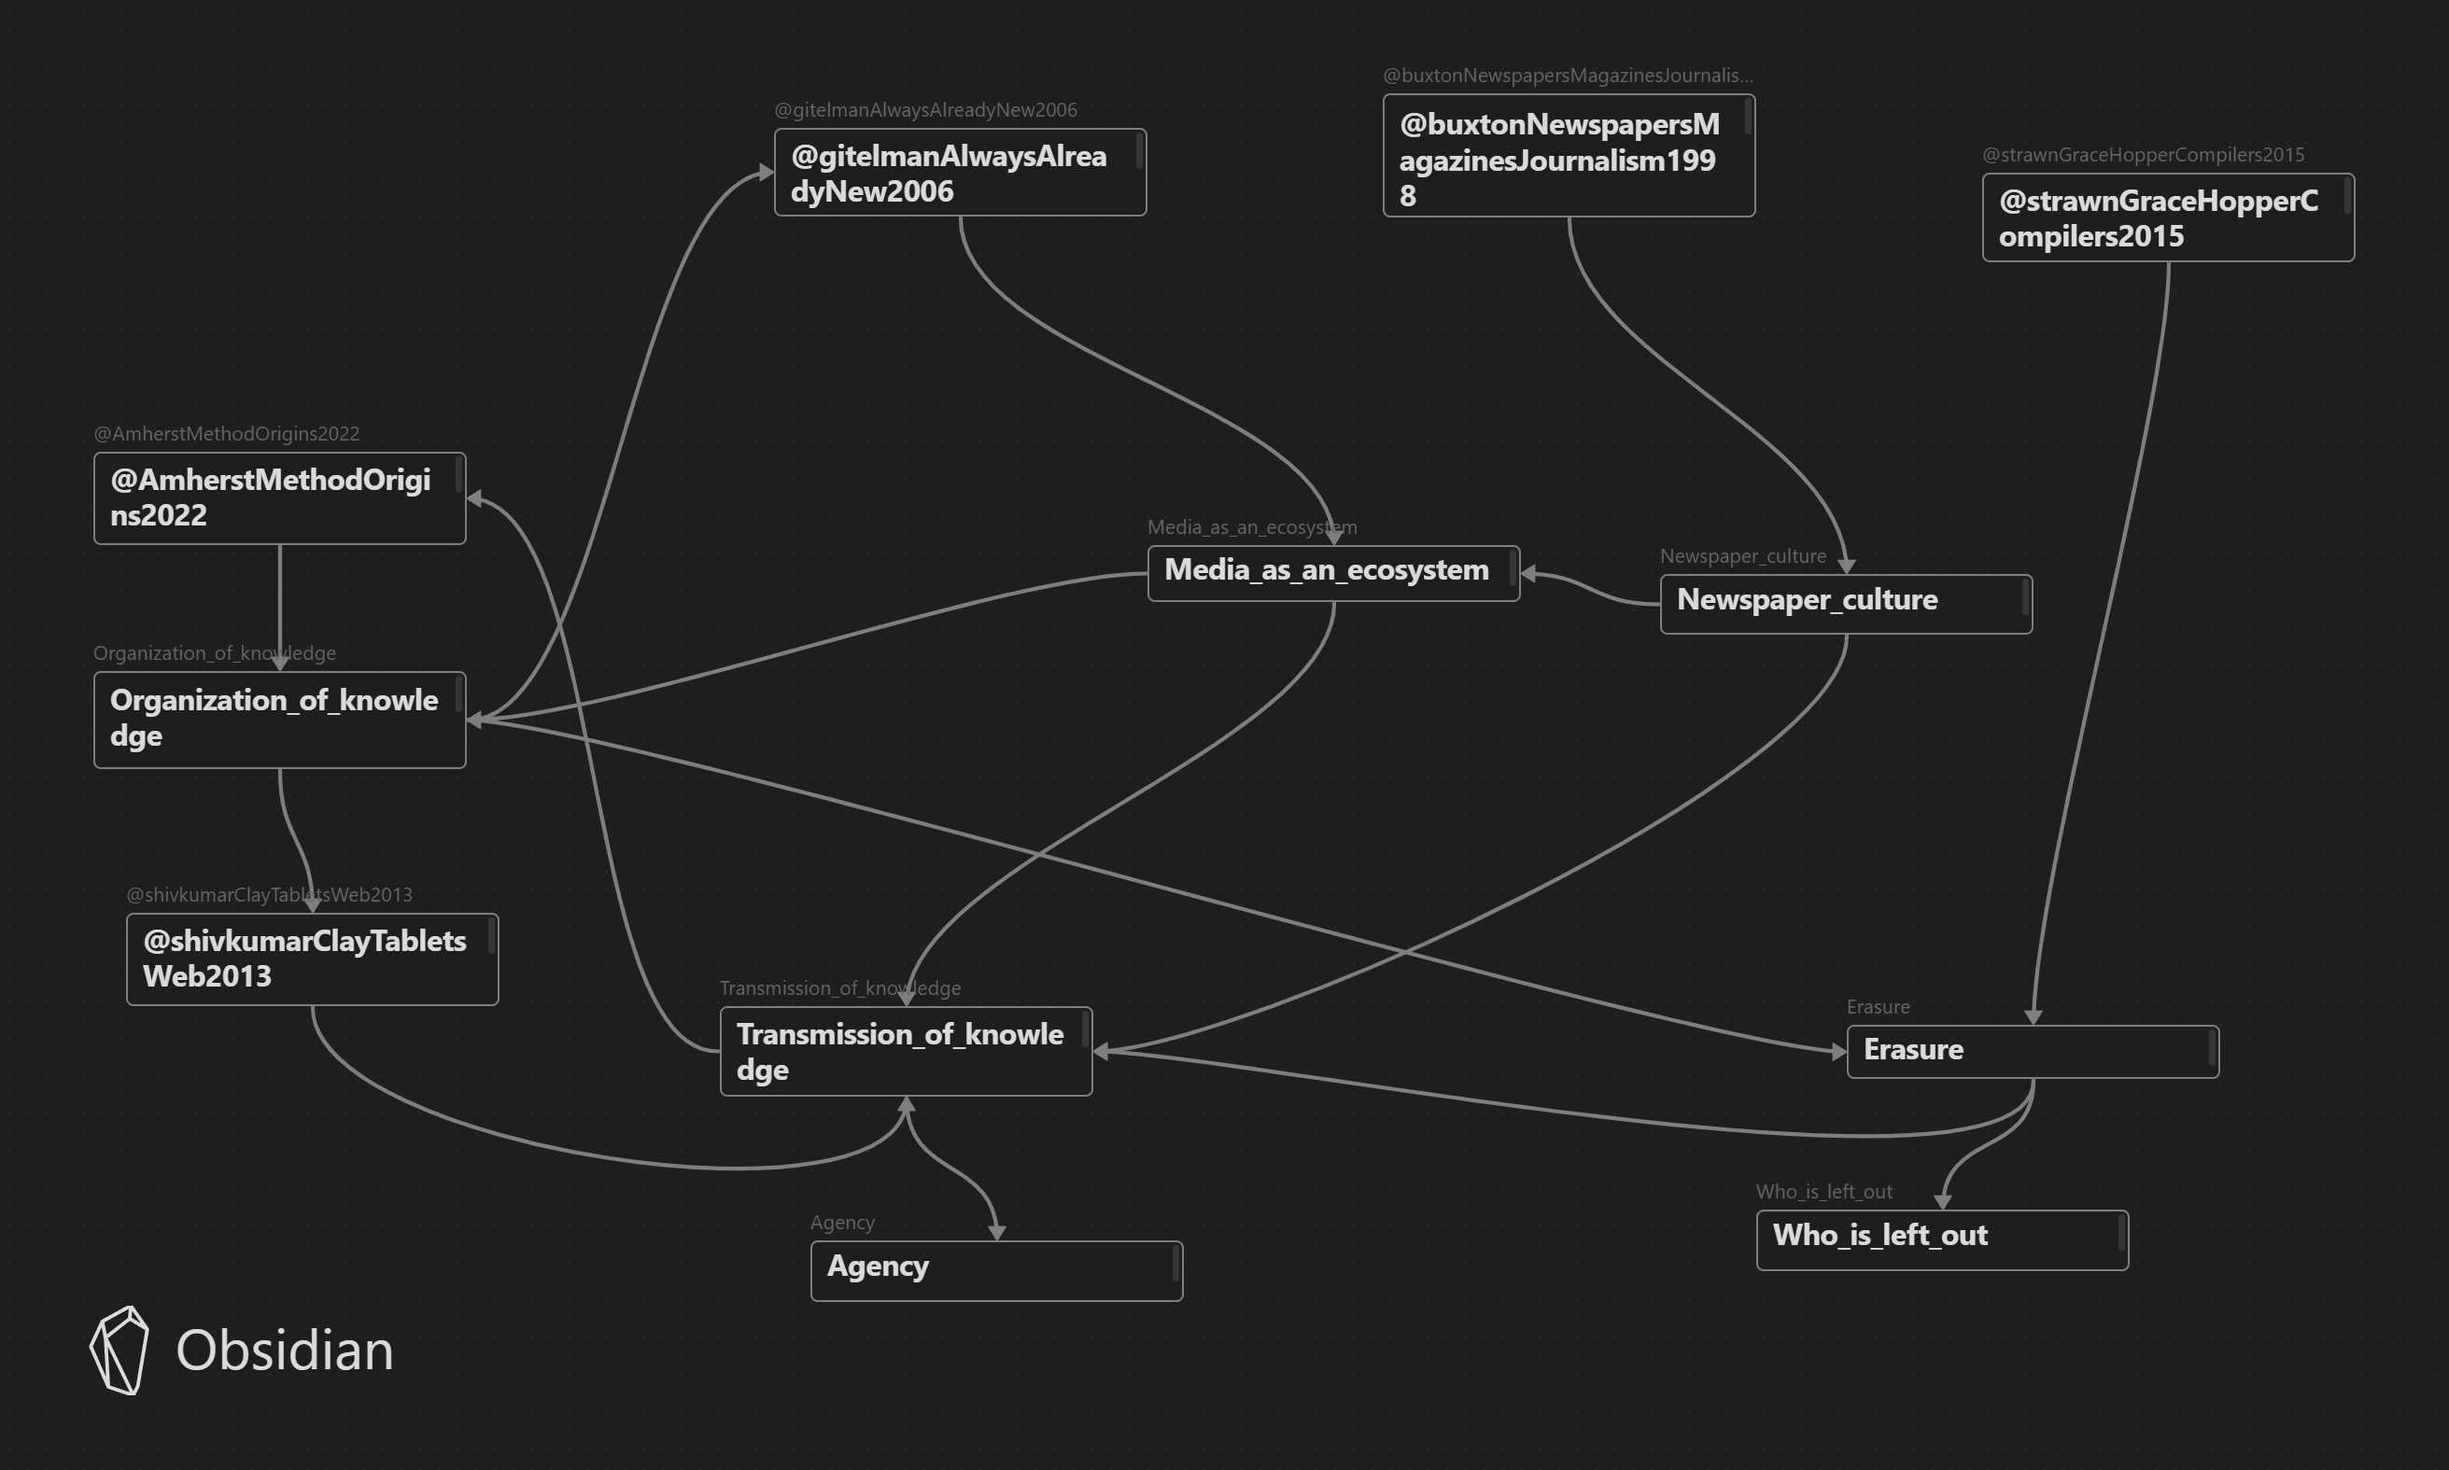
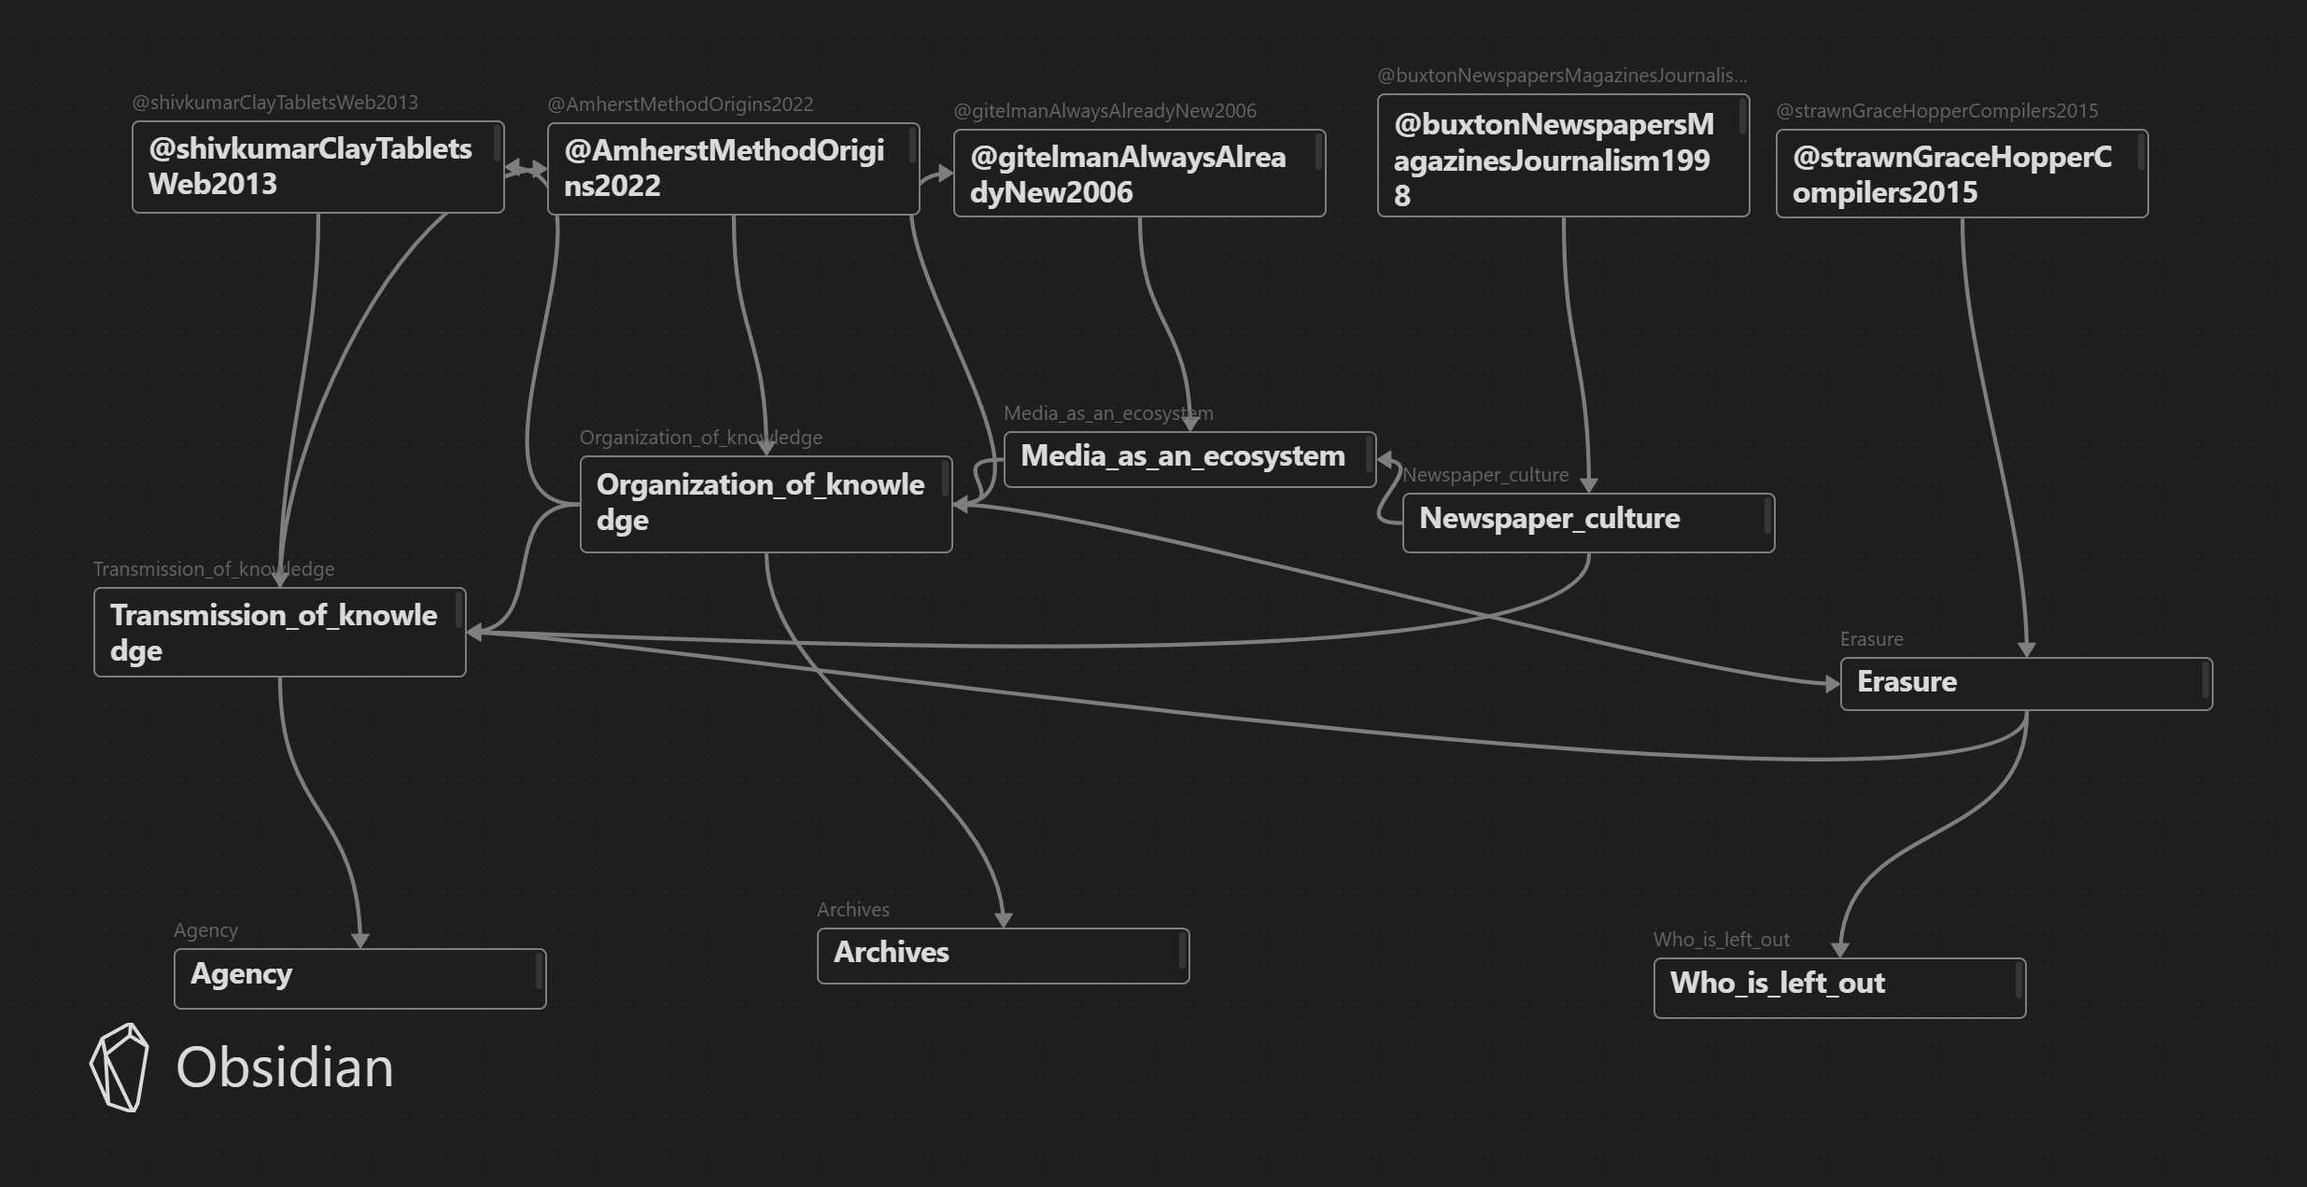
Add files via upload

diff --git a/docs/thoughts/atomicNotes/Newspaper_culture.md b/docs/thoughts/atomicNotes/Newspaper_culture.md
@@ -4,7 +4,7 @@ date: 2023-02-10
 type: literature
 project: Memex1
 ---
-tags:: Atomic, Print, Media, Ecosystem, Agency
+tags:: Memex1, Atomic, Print, Media, Ecosystem, Agency
 
 - It would seem that newspaper culture just predates the web in that it used to be the mainstream way of getting information and transmitting knowledge about the world. Printing presses would print journal articles that would then be sent to the mass. Just like the web, a cultural phenomenon would envelop the newspaper culture. People would read the news in the morning, then when arriving at work, they would discuss what they saw on the newspaper with their coworkers. This would shape a new cultural network of knowledge transmission. It is impossible to talk about newspaper without mentioning the blatant propaganda that used the medium to their advantage. As is the case with all previous transmission of knowledge, the newspaper is not without agency. Although the newspaper has largely transferred to the digital web, its issues with propaganda, false information, and agency carried to the internet.  
 

diff --git a/docs/thoughts/atomicNotes/Transmission_of_knowledge.md b/docs/thoughts/atomicNotes/Transmission_of_knowledge.md
@@ -4,7 +4,7 @@ date: 2023-02-10
 type: literature
 project: Memex1
 ---
-tags:: Atomic, Accessibility, Media, Catalogue, Control
+tags:: Memex1, Atomic, Accessibility, Media, Catalogue, Control
 
 
 -   For those born in the last 2 decades, the immediate access of the internet's vast resources has been something as natural as walking. However, by taking taking this transmission of knowledge for granted, we fail at seeing what came before the web, and how a coordination of agencies made it possible. In the past, authoritative figures like the Alexandria Library and the Church decided who could read what. This selectiveness of knowledge is still present today despite digital libraries being available to all with electricity and an internet connection. What did not change from the past is the presence of **agency** of what kind of knowledge is transmitted. Now that everyone can access the web, it is no longer a matter of controlling **who** *reads*, but **what** *they can and should read.* 

diff --git a/docs/thoughts/atomicNotes/Erasure.md b/docs/thoughts/atomicNotes/Erasure.md
@@ -4,7 +4,7 @@ date: 2023-02-10
 type: literature
 project:
 ---
-tags:: Atomic, Woman, Erasure, Computer, Control
+tags:: Memex1, Atomic, Woman, Erasure, Computer, Control
 
 - When thinking about computers and the digital world, media has normalized us to only see and hear the word: "Men!" and never "women." Why is that? Or maybe we can ask ourself, how is that? Because it is the transmitter of information that has decided that women should be erased from these celebrated spotlights. Only recently has the discourse of women's contribution, in innovations such as computers and male dominated fields, surfaced and started to spread and gain awareness. It's through reading these historical biographies of these women's innovations that we can better understand that the world isn't shaped by men, but by both then covered by men. Once again, the theme of control appears when we discuss information, especially the erasure of important knowledge. 
 

diff --git a/docs/thoughts/atomicNotes/Organization_of_knowledge.md b/docs/thoughts/atomicNotes/Organization_of_knowledge.md
@@ -4,7 +4,7 @@ date: 2023-02-10
 type: literature
 project: Memex1
 ---
-tags:: Atomic, Classification, Organization, Agency
+tags:: Memex1, Atomic, Classification, Organization, Agency
 
 
 -   Who decides where the information goes? Who has the authority to decide how information should be organized and classified? Why should one system of classification be better than another? These are things that I try to ask myself as I see diverse ways of organizing knowledge while browsing the web. They are often in alphabetic order and appear to contain all the different disciplines of knowledge, but are they really objective? When the Dewey Decimal Classification Scheme was created, they organized knowledge **based on their Anglo-Saxon perspectives**. As such, the wild-spread classification system that came out was not objective, but deeply rooted in the agency of its creator. 

diff --git a/docs/thoughts/IdeaNotes/Archives.md b/docs/thoughts/IdeaNotes/Archives.md
@@ -5,7 +5,7 @@ type: permanent
 project: Memex1
 ---
 
-tags::  Idea, Archives, Classification, Agency
+tags::  Memex1, Idea, Archives, Classification, Agency
 
 - As we were discussing the methods of classification and cataloguing in libraries, I realized that were only talking about academic and public libraries. Thus, what about the archives library? How does one classify primary sources? I don't think using the Dewey Decimal Classification Scheme would prove effective here since we are not dealing with academic papers or knowledge research, but anecdotes, artifacts, pictures, videos, and personal items. Would it even be "right" to classify intimate documents like these, especially if the owner is deceased? It is even more relevant now as archival documents make their way onto the web for public eyes. 
 

diff --git a/docs/thoughts/IdeaNotes/Agency.md b/docs/thoughts/IdeaNotes/Agency.md
@@ -5,7 +5,7 @@ type: permanent
 project: Memex1
 ---
 
-tags::  Idea, Agency, Objectiveness
+tags::  Memex1, Idea, Agency, Objectiveness
 
 - How do you write without agency? In the lecture and in the readings, the idea of classification not being objective and the transfer of knowledge is controlled by agency constantly pops up. Could it not be argued that the very memex I am composing carries with it my own agency? For example, since I am choosing which sources I want to add, what happens to the other sources? I might consider them less "useful" or "important" for the case that I am making, so that in itself would mean that there is an agency behind my argument and learning of the history of the internet. 
 

diff --git a/docs/thoughts/IdeaNotes/Who_is_left_out.md b/docs/thoughts/IdeaNotes/Who_is_left_out.md
@@ -5,7 +5,7 @@ type: permanent
 project: Memex1
 ---
 
-tags::  Idea, Erasure, Women, History
+tags::  Memex1, Idea, Erasure, Women, History
 
 - Who is left out as we discuss the history of the internet and how would it possible to found out those people, even after they've passed away? Learning history afterall is trying to piece together the pieces and trying to make sense of the past, but if those pieces are long gone, then maybe the contribution of uncreditted innovators (especially women) are gone to ash. 
 

diff --git a/docs/thoughts/atomicNotes/Media_as_an_ecosystem.md b/docs/thoughts/atomicNotes/Media_as_an_ecosystem.md
@@ -4,7 +4,7 @@ date: 2023-02-10
 type: literature
 project: Memex1
 ---
-tags:: Atomic, Media, Ecosystem
+tags:: Memex1, Atomic, Media, Ecosystem
 
 
 Media cannot be analyzed in a vacuum as it is a result of numerous forces working symbiotically. Media is only its shell, the box that contains the ecosystem. Media is:

diff --git a/docs/sourceNotes/@shivkumarClayTabletsWeb2013.md b/docs/sourceNotes/@shivkumarClayTabletsWeb2013.md
@@ -5,7 +5,7 @@ type: reference
 project: Memex1
 ---
 
-tags:: Source, Classification, Catalogue, Agency, Accessibility
+tags:: Memex1, Source, Classification, Catalogue, Agency, Accessibility
 
 ### Reference 
 

diff --git a/docs/sourceNotes/@strawnGraceHopperCompilers2015.md b/docs/sourceNotes/@strawnGraceHopperCompilers2015.md
@@ -5,7 +5,7 @@ type: reference
 project: Memex1
 ---
 
-tags:: Source, Woman, Information, Computer, Erasure
+tags:: Memex1, Source, Woman, Information, Computer, Erasure
 
 ### Reference 
 

diff --git a/docs/index.md b/docs/index.md
@@ -4,7 +4,7 @@
 
 Hopefully I don't break your mind, but here is how the memex is mapped so far:
 
-![Map of Memex](mapofmemex.jpg)
+![Map of Memex](mapofmemex1.jpg)
 
 ---
 ## Sources

diff --git a/docs/sourceNotes/@buxtonNewspapersMagazinesJournalism1998.md b/docs/sourceNotes/@buxtonNewspapersMagazinesJournalism1998.md
@@ -5,7 +5,7 @@ type: reference
 project: Memex1
 ---
 
-tags:: Source, Canada, Print, Media, Newspaper
+tags:: Memex1, Source, Canada, Print, Media, Newspaper
 
 ### Reference 
 
